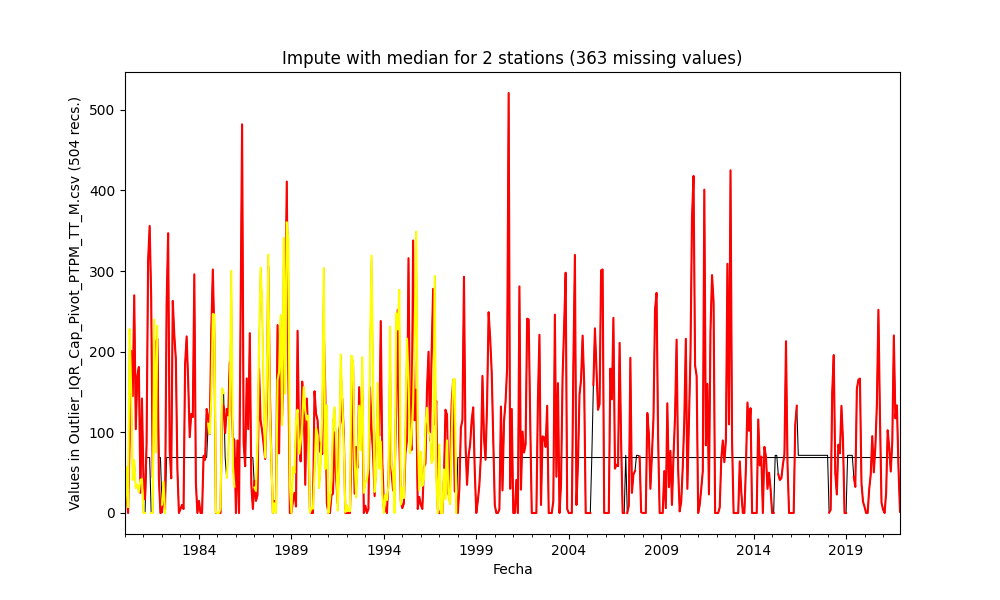
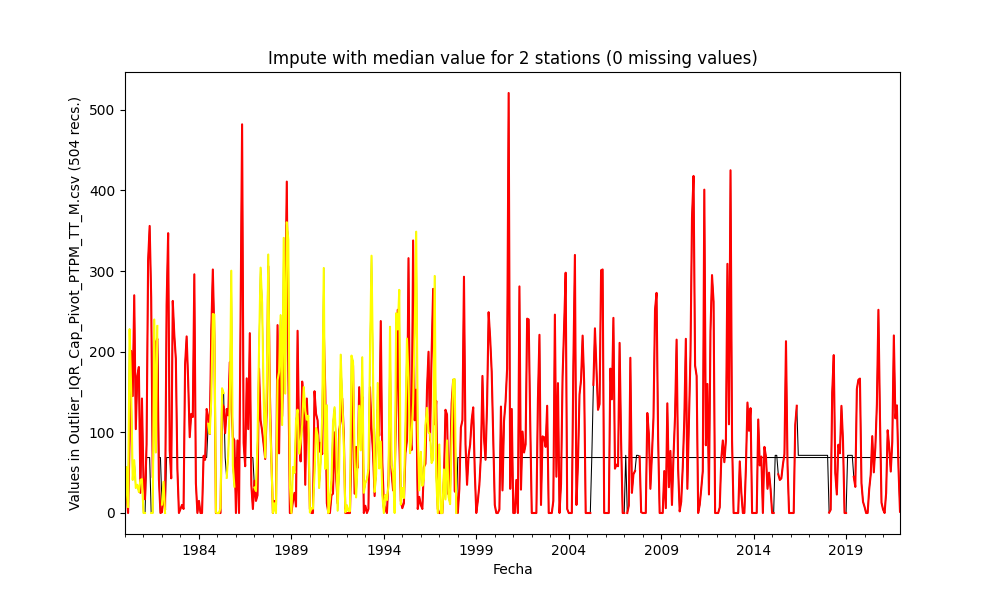
General update.

Changed region(s): [[0.248, 0.09, 0.775, 0.12]]

diff --git a/.src/Impute.py b/.src/Impute.py
@@ -29,7 +29,7 @@ def print_log(txt_print, on_screen=True, center_div=False):
 def plot_impute(df_org, df_impute, method, file_name):
     ax = df_impute.plot(color='black', legend=False, alpha=1, figsize=(fig_size*2, fig_size+1), linewidth=0.75)
     df_org.plot(ax=ax, colormap=plot_colormap, alpha=1, legend=False, figsize=(fig_size*2, fig_size+1))
-    plt.title('Impute with %s for %d stations (%d missing values)' % (method, df.shape[1], total_nuls))
+    plt.title('Impute with %s value for %d stations (%d missing values)' % (method, df.shape[1], total_nulls))
     ax.set_ylabel('Values in %s (%d recs.)' % (pivot_table_name, ideam_regs))
     plt.savefig(path + file_name + '.png')
     print_log('\n![R.LTWB](%s)' % (file_name + '.png'), center_div=False)
@@ -88,12 +88,12 @@ df_dtypes = pd.DataFrame(df.dtypes, columns=['Dtype'])
 df_isnull = pd.DataFrame(df.isnull().sum(), columns=['Nulls'])
 df_concat = pd.concat([df_dtypes, df_isnull], axis='columns').T # .T for transpose
 print_log(df_concat.to_markdown(), center_div=True)
-total_nuls = df_concat.T['Nulls'].sum()
-#print_log('\nTotal nulls values founded in the dataset: %d\n' % total_nuls, center_div=False)
+total_nulls = df_concat.T['Nulls'].sum()
+#print_log('\nTotal nulls values founded in the dataset: %d\n' % total_nulls, center_div=False)
 #nul_data = pd.DataFrame(df.isnull())
 #print_log(nul_data.to_markdown())
 ax = df.plot(colormap=plot_colormap, legend=False, alpha=fig_alpha, figsize=(fig_size*2, fig_size+1))  # colormap can be replaced by color='lightblue'
-plt.title('Original serie with %d stations (%d missing values)' % (df.shape[1], total_nuls))
+plt.title('Original serie with %d stations (%d missing values)' % (df.shape[1], total_nulls))
 ax.set_ylabel('Values in %s (%d recs.)' % (pivot_table_name, ideam_regs))
 plt.savefig(path + pivot_table_name + '.png')
 print_log('\n![R.LTWB](%s)' % (pivot_table_name + '.png'), center_div=False)
@@ -102,15 +102,24 @@ plt.close('all')
 print_log('General statistics table - Initial file', center_div=True)
 print_log(df.describe().T.to_markdown(), center_div=True) # .T for transpose
 
-# Impute missing values with mean values
-print_log('\n### Method 1 - Imputing with mean values for %d stations (%d missing values)' % (df.shape[1], total_nuls))
+# Method 1 - Impute missing values with mean values
 df_impute = df.fillna(df.mean())
+df_isnull = pd.DataFrame(df_impute.isnull().sum(), columns=['Nulls'])
+total_nulls = df_isnull['Nulls'].sum()
+print_log('\n### Method 1 - Imputing with mean values for %d stations (%d missing values & %d imputed)' % (df.shape[1], total_nulls, total_nulls))
 impute_file = 'Impute_Mean_' + pivot_table_name
 plot_impute(df, df_impute, 'mean', impute_file)
 
+
 # Impute missing values with median values
-print_log('\n### Method 2 - Imputing with median values for %d stations (%d missing values)' % (df.shape[1], total_nuls))
+print_log('\n### Method 2 - Imputing with median values for %d stations (%d missing values)' % (df.shape[1], total_nulls))
 df_impute = df.fillna(df.median())
 impute_file = 'Impute_Median_' + pivot_table_name
 plot_impute(df, df_impute, 'median', impute_file)
+
+# Impute missing values with Last Observation Carried Forward (LOCF)
+print_log('\n### Method 3 - Imputing with LOCF values for %d stations (%d missing values)' % (df.shape[1], total_nulls))
+df_impute = df.fillna(method = 'bfill')
+impute_file = 'Impute_LOCF_' + pivot_table_name
+plot_impute(df, df_impute, 'LOCF', impute_file)
 

diff --git a/.datasets/IDEAM_Impute/Impute_Outlier_IQR_Cap_Pivot_PTPM_TT_M.csv.md b/.datasets/IDEAM_Impute/Impute_Outlier_IQR_Cap_Pivot_PTPM_TT_M.csv.md
@@ -1,7 +1,7 @@
 ## Impute missing values in time series through statistical methods
 
 * Processed file: [D:/R.LTWB/.datasets/IDEAM_Outlier/Outlier_IQR_Cap_Pivot_PTPM_TT_M.csv](../IDEAM_EDA/Outlier_IQR_Cap_Pivot_PTPM_TT_M.csv)
-* Execution date: 2022-11-10 10:50:36.508542
+* Execution date: 2022-11-10 11:00:42.992772
 * Python version: 3.10.5 (tags/v3.10.5:f377153, Jun  6 2022, 16:14:13) [MSC v.1929 64 bit (AMD64)]
 * Python path: ['D:\\R.LTWB\\.src', 'D:\\R.LTWB', 'D:\\R.GISPython.wiki', 'D:\\R.HydroTools', 'D:\\R.HydroTools.wiki']
 * matplotlib version: 3.6.0
@@ -63,10 +63,14 @@ General statistics table - Initial file
 </div>
 
 
-### Method 1 - Imputing with mean values for 2 stations (363 missing values)
+### Method 1 - Imputing with mean values for 2 stations (0 missing values & 0 imputed)
 
 ![R.LTWB](Impute_Mean_Outlier_IQR_Cap_Pivot_PTPM_TT_M.csv.png)
 
-### Method 2 - Imputing with median values for 2 stations (363 missing values)
+### Method 2 - Imputing with median values for 2 stations (0 missing values)
 
 ![R.LTWB](Impute_Median_Outlier_IQR_Cap_Pivot_PTPM_TT_M.csv.png)
+
+### Method 3 - Imputing with LOCF values for 2 stations (0 missing values)
+
+![R.LTWB](Impute_LOCF_Outlier_IQR_Cap_Pivot_PTPM_TT_M.csv.png)
